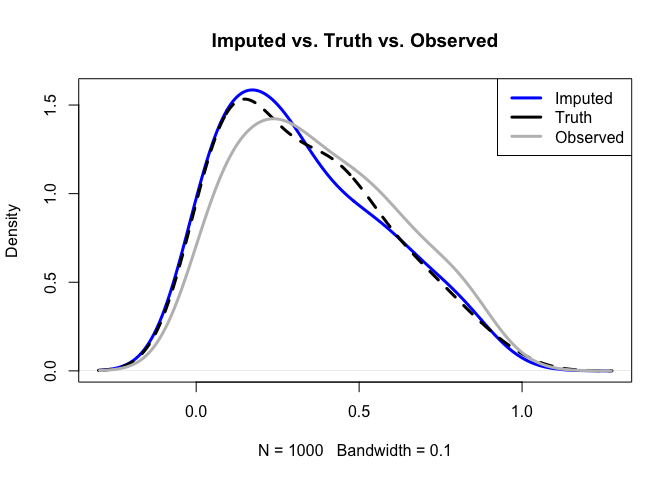
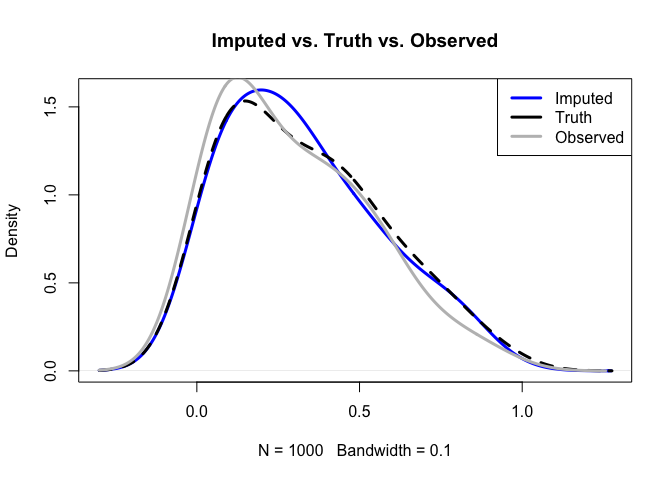
read me

diff --git a/README.md b/README.md
@@ -53,7 +53,7 @@ $\boldsymbol Y_{ij}$ for $R_{ij}>0$.
   print("Missingness in Each Y_j:")
 #> [1] "Missingness in Each Y_j:"
   print(colMeans(R))
-#> [1] 0.473 0.500 0.498 0.507 0.494
+#> [1] 0.534 0.505 0.510 0.522 0.481
 
   # Now we'll create the study variables. Here we use gamma, t, and beta marginals 
   
@@ -90,29 +90,29 @@ $\boldsymbol Y_{ij}$ for $R_{ij}>0$.
       print("Summary of (Y^obs, R)")
 #> [1] "Summary of (Y^obs, R)"
       print(summary(Y_obs))
-#>       Y_j              Y_j               Y_j              Y_j        
-#>  Min.   :0.0135   Min.   :-0.9394   Min.   :0.0001   Min.   :0.0002  
-#>  1st Qu.:0.5351   1st Qu.: 0.9185   1st Qu.:0.1281   1st Qu.:0.2311  
-#>  Median :1.1101   Median : 1.5254   Median :0.2800   Median :0.6188  
-#>  Mean   :1.4057   Mean   : 1.6877   Mean   :0.3247   Mean   :0.9463  
-#>  3rd Qu.:2.0236   3rd Qu.: 2.3426   3rd Qu.:0.4827   3rd Qu.:1.2290  
-#>  Max.   :6.8687   Max.   : 9.5645   Max.   :0.9457   Max.   :6.6074  
-#>  NA's   :473      NA's   :500       NA's   :498      NA's   :507     
-#>       Y_j               V6              V7            V8              V9       
-#>  Min.   :-2.393   Min.   :0.000   Min.   :0.0   Min.   :0.000   Min.   :0.000  
-#>  1st Qu.: 1.523   1st Qu.:0.000   1st Qu.:0.0   1st Qu.:0.000   1st Qu.:0.000  
-#>  Median : 2.445   Median :0.000   Median :0.5   Median :0.000   Median :1.000  
-#>  Mean   : 2.712   Mean   :0.473   Mean   :0.5   Mean   :0.498   Mean   :0.507  
-#>  3rd Qu.: 3.620   3rd Qu.:1.000   3rd Qu.:1.0   3rd Qu.:1.000   3rd Qu.:1.000  
-#>  Max.   :12.463   Max.   :1.000   Max.   :1.0   Max.   :1.000   Max.   :1.000  
-#>  NA's   :494                                                                   
-#>       V10       
-#>  Min.   :0.000  
-#>  1st Qu.:0.000  
-#>  Median :0.000  
-#>  Mean   :0.494  
-#>  3rd Qu.:1.000  
-#>  Max.   :1.000  
+#>       Y_j              Y_j              Y_j              Y_j        
+#>  Min.   :0.0026   Min.   :-2.274   Min.   :0.0000   Min.   :0.0019  
+#>  1st Qu.:0.1602   1st Qu.: 1.080   1st Qu.:0.0985   1st Qu.:0.4358  
+#>  Median :0.4039   Median : 1.825   Median :0.2553   Median :0.9375  
+#>  Mean   :0.6729   Mean   : 2.030   Mean   :0.3014   Mean   :1.2304  
+#>  3rd Qu.:0.9306   3rd Qu.: 2.821   3rd Qu.:0.4604   3rd Qu.:1.7469  
+#>  Max.   :4.7312   Max.   :11.584   Max.   :0.9564   Max.   :6.4009  
+#>  NA's   :534      NA's   :505      NA's   :510      NA's   :522     
+#>       Y_j               V6              V7              V8      
+#>  Min.   :-1.906   Min.   :0.000   Min.   :0.000   Min.   :0.00  
+#>  1st Qu.: 1.293   1st Qu.:0.000   1st Qu.:0.000   1st Qu.:0.00  
+#>  Median : 2.159   Median :1.000   Median :1.000   Median :1.00  
+#>  Mean   : 2.362   Mean   :0.534   Mean   :0.505   Mean   :0.51  
+#>  3rd Qu.: 3.065   3rd Qu.:1.000   3rd Qu.:1.000   3rd Qu.:1.00  
+#>  Max.   :11.950   Max.   :1.000   Max.   :1.000   Max.   :1.00  
+#>  NA's   :481                                                    
+#>        V9             V10       
+#>  Min.   :0.000   Min.   :0.000  
+#>  1st Qu.:0.000   1st Qu.:0.000  
+#>  Median :1.000   Median :0.000  
+#>  Mean   :0.522   Mean   :0.481  
+#>  3rd Qu.:1.000   3rd Qu.:1.000  
+#>  Max.   :1.000   Max.   :1.000  
 #> 
 ```
 
@@ -186,23 +186,23 @@ imps<- EHQLImpute(YR,
 Now, we can look at the imputations
 
 ``` r
-summary(imps$YImpute[[20]])
-#>       Y_j                Y_j              Y_j                Y_j          
-#>  Min.   :0.000921   Min.   :-0.105   Min.   :0.002382   Min.   :0.002214  
-#>  1st Qu.:0.301419   1st Qu.: 1.521   1st Qu.:0.133752   1st Qu.:0.331887  
-#>  Median :0.769738   Median : 2.149   Median :0.272867   Median :0.697063  
-#>  Mean   :1.068321   Mean   : 2.475   Mean   :0.329481   Mean   :1.019848  
-#>  3rd Qu.:1.553196   3rd Qu.: 3.122   3rd Qu.:0.502212   3rd Qu.:1.479845  
-#>  Max.   :5.276930   Max.   :14.336   Max.   :0.973536   Max.   :5.817298  
-#>       Y_j        
-#>  Min.   :-0.729  
-#>  1st Qu.: 1.438  
-#>  Median : 2.150  
-#>  Mean   : 2.466  
-#>  3rd Qu.: 3.194  
-#>  Max.   :15.031
+summary(imps$YImpute[[2]])
+#>       Y_j                Y_j                Y_j                 Y_j          
+#>  Min.   :0.002831   Min.   :-0.01022   Min.   :-0.000099   Min.   :0.002214  
+#>  1st Qu.:0.295708   1st Qu.: 1.43534   1st Qu.: 0.132760   1st Qu.:0.299862  
+#>  Median :0.738075   Median : 2.16926   Median : 0.286881   Median :0.655321  
+#>  Mean   :1.082782   Mean   : 2.43558   Mean   : 0.328149   Mean   :1.065591  
+#>  3rd Qu.:1.559143   3rd Qu.: 3.01529   3rd Qu.: 0.486232   3rd Qu.:1.576546  
+#>  Max.   :5.177720   Max.   :14.33562   Max.   : 0.973536   Max.   :7.032586  
+#>       Y_j         
+#>  Min.   :-0.5853  
+#>  1st Qu.: 1.2763  
+#>  Median : 2.1431  
+#>  Mean   : 2.4003  
+#>  3rd Qu.: 3.2401  
+#>  Max.   :25.7541
 
-plot(density(imps$YImpute[[20]][,3], bw = .1),col = "blue", lwd = 3, main = "Imputed vs. Truth vs. Observed")
+plot(density(imps$YImpute[[2]][,3], bw = .1),col = "blue", lwd = 3, main = "Imputed vs. Truth vs. Observed")
 lines(density(rbeta(1000,1,2),bw = .1),lwd = 3, lty = 2)
 lines(density(Y_raw[,3],na.rm = T, bw = .1), lwd = 3, col = "gray")
 legend("topright", c("Imputed", "Truth", "Observed"), col= c("blue", "black", "gray"), lwd = 3)
